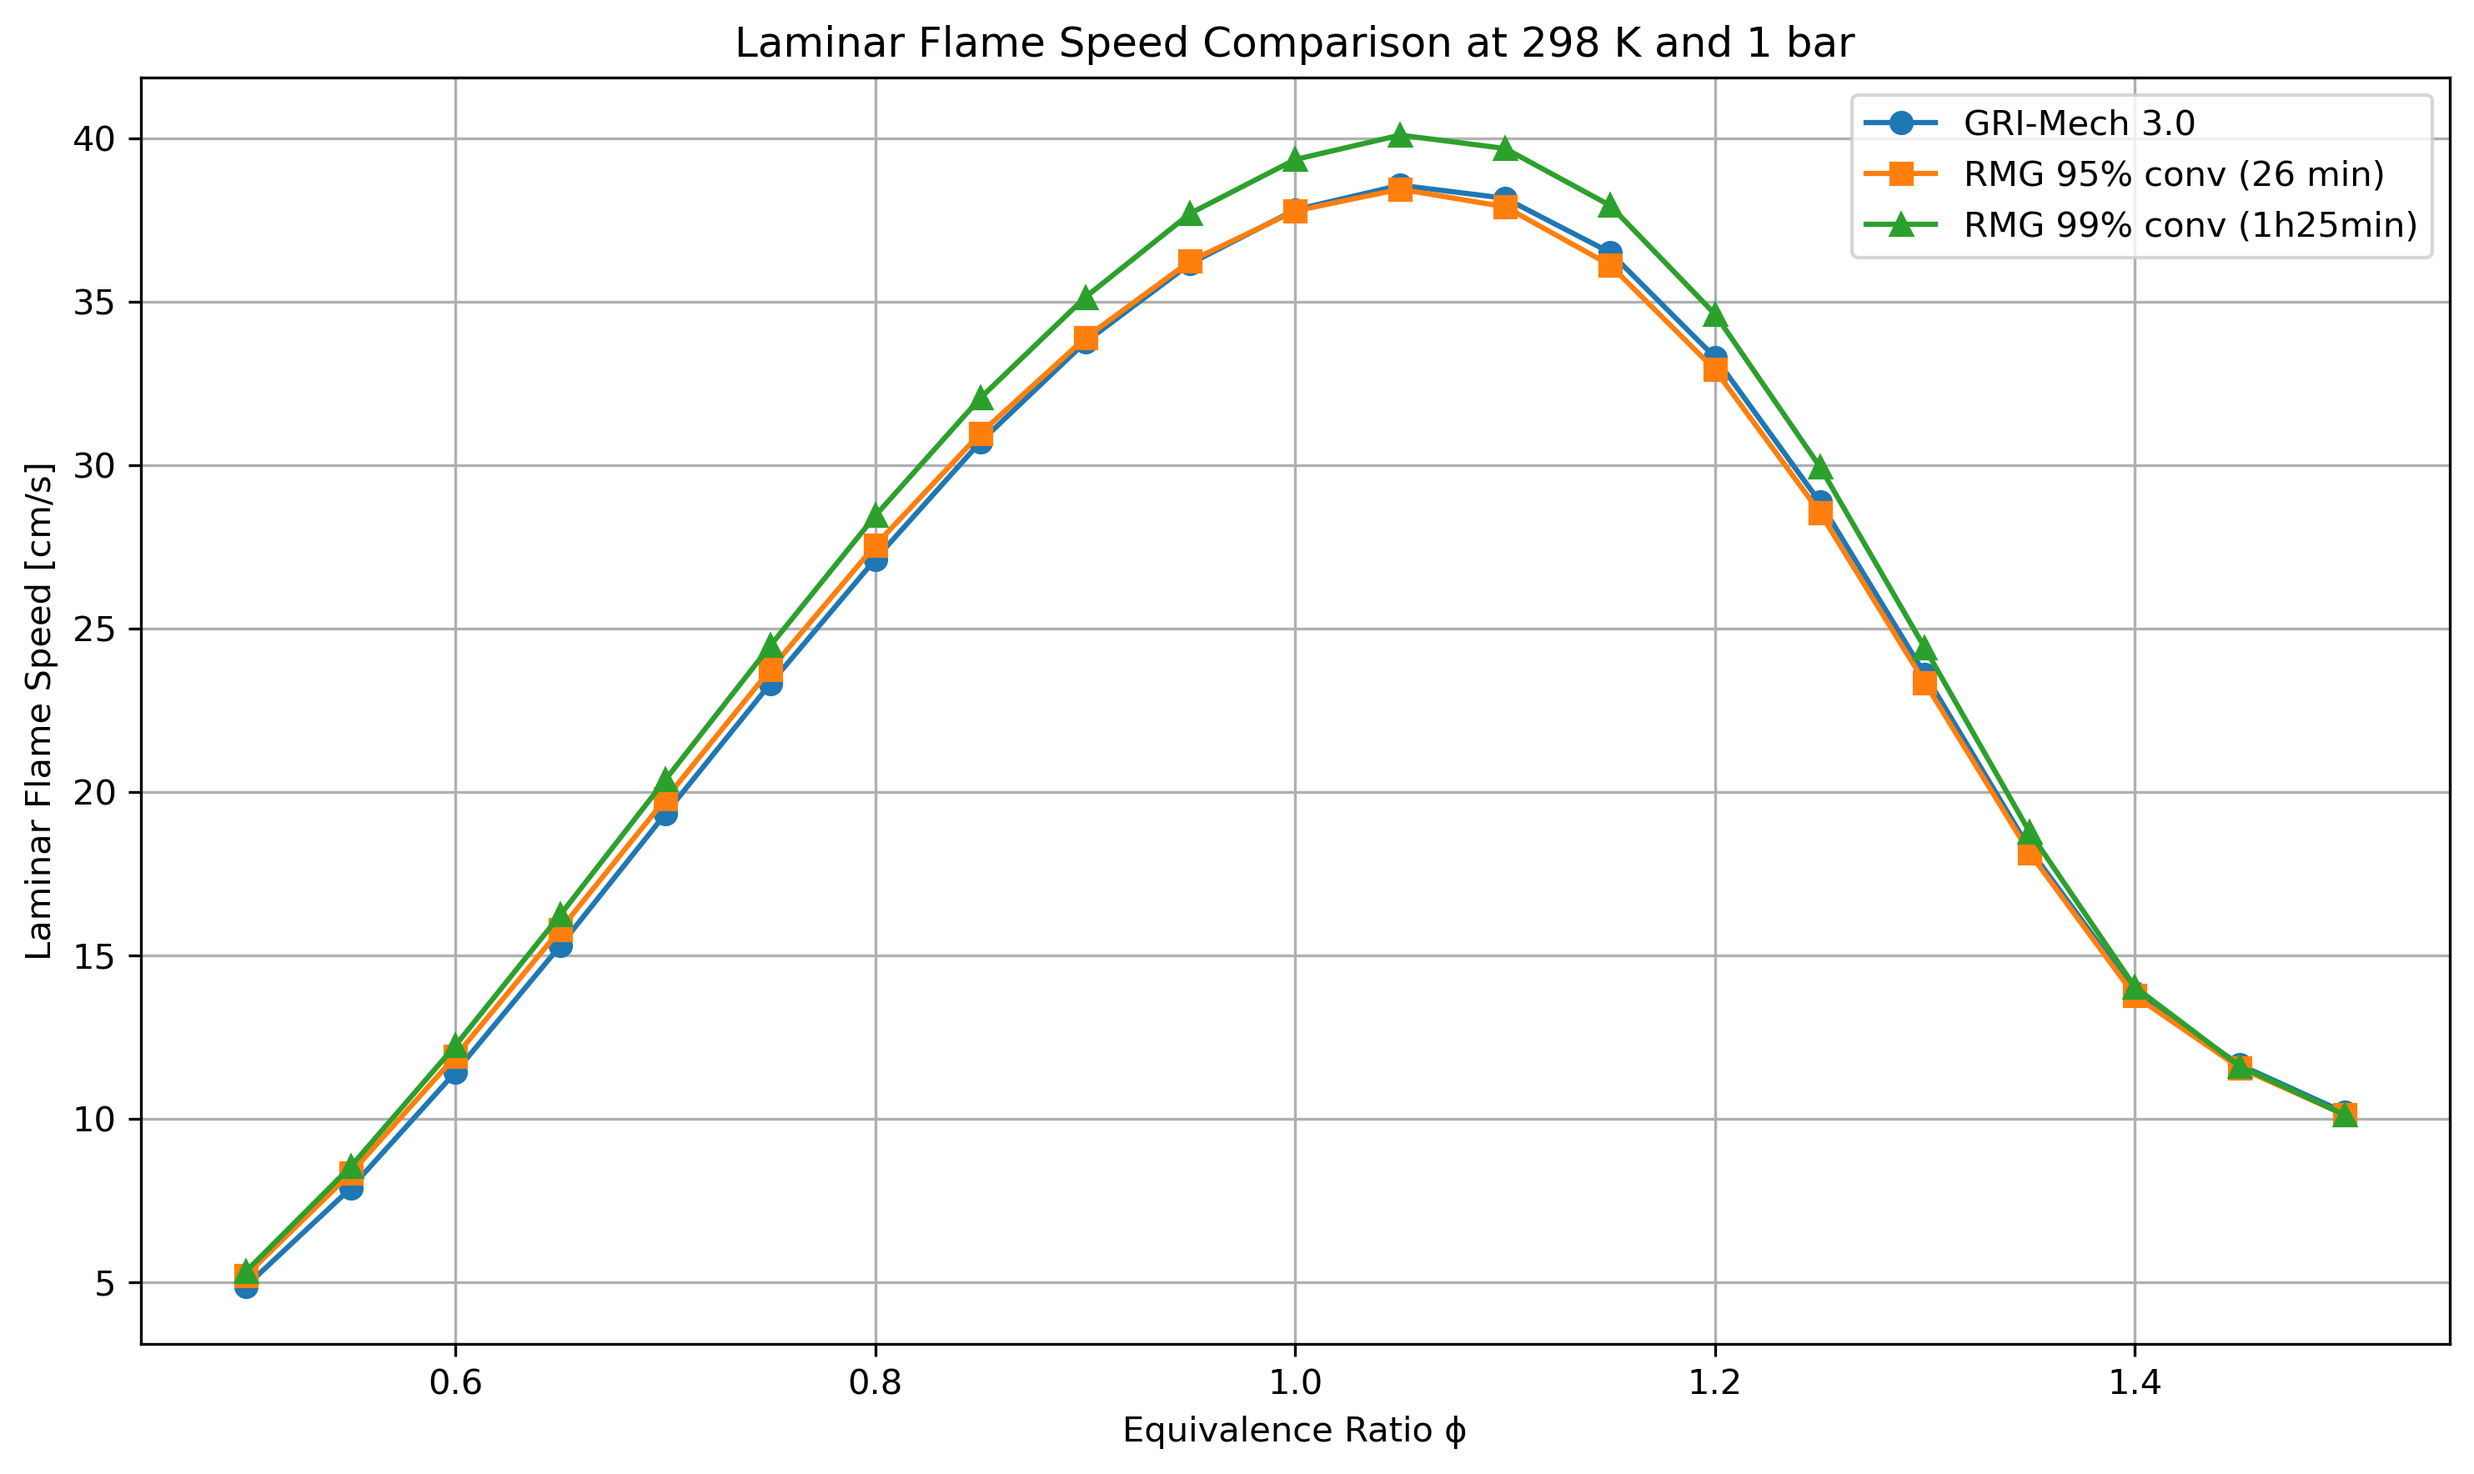
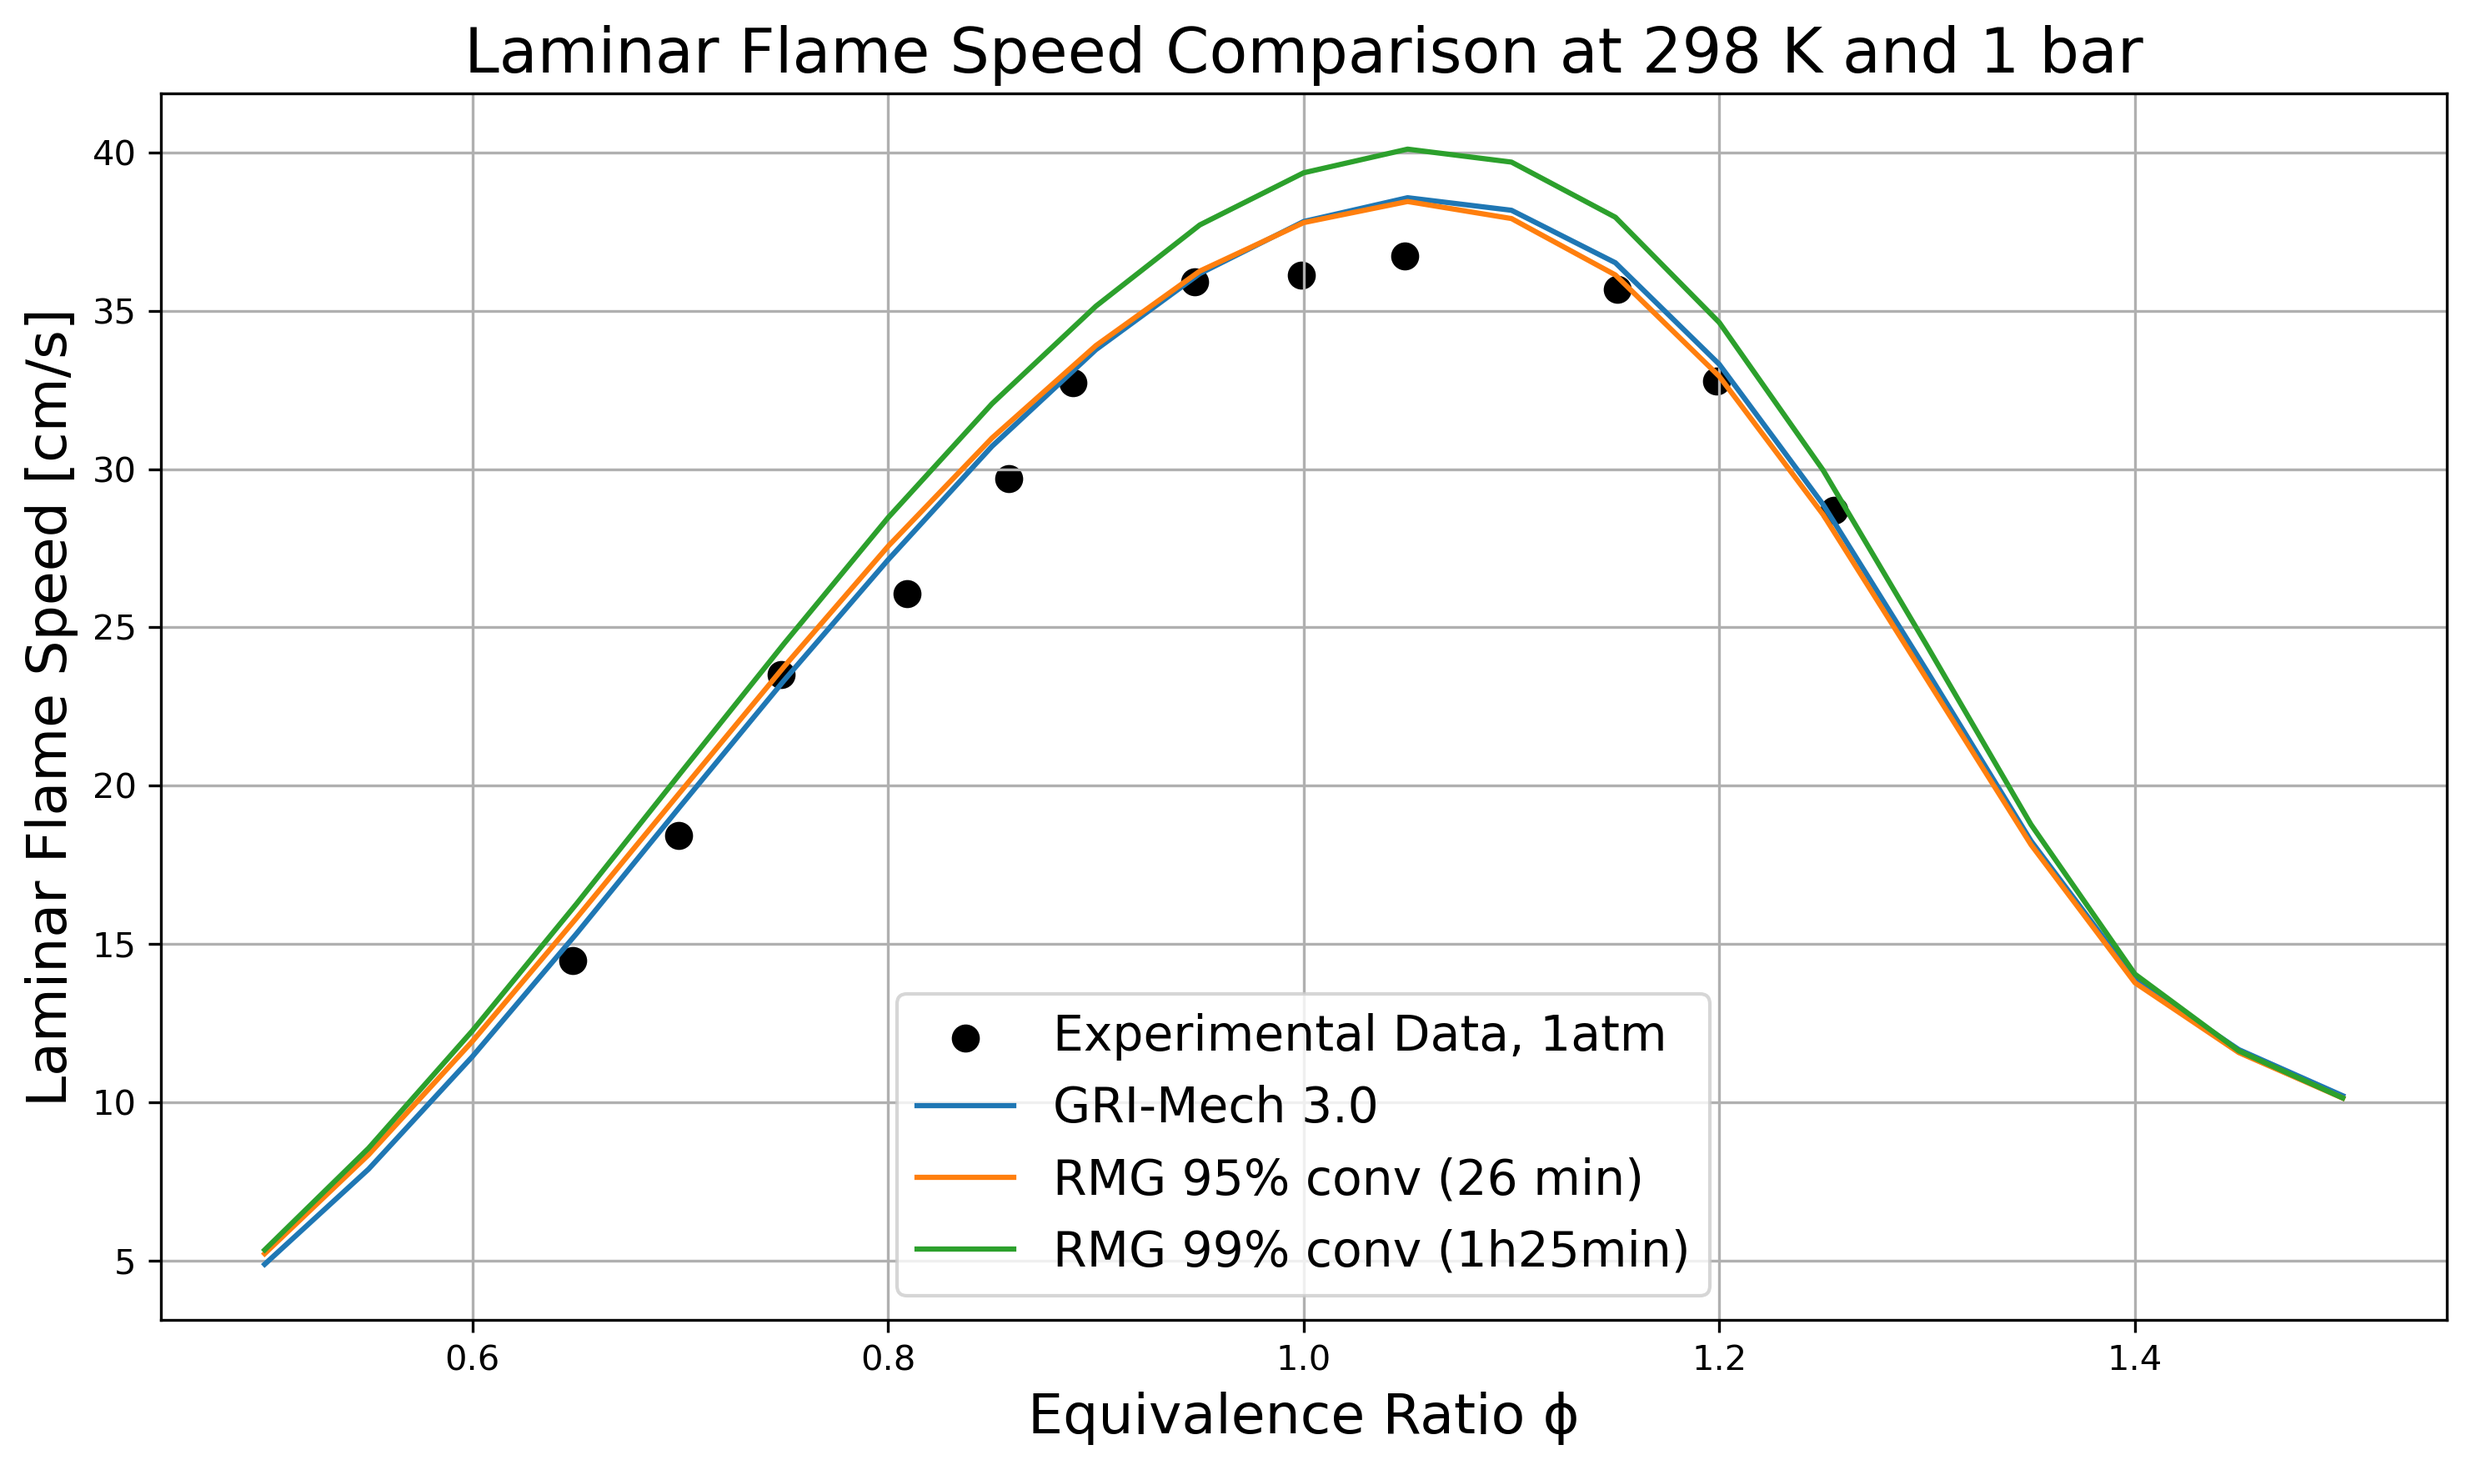
Code update for plots

Changed region(s): [[0.0, 0.0, 0.9933, 0.9983]]

diff --git a/RMG_methane/Analysis_scripts/IDT_RMG.py b/RMG_methane/Analysis_scripts/IDT_RMG.py
@@ -10,13 +10,21 @@ import os
 import matplotlib.pyplot as plt
 import cantera as ct
 
+# -------------------- Experimental Data import Section --------------------------------
+# Import experimental flame speed data
+script_dir = os.path.dirname(__file__)
+os.chdir('/home/brukare/Combustion/RMG_methane')
+IDT_1 = pd.read_csv(os.path.join(script_dir, 'IDT_1.0.csv'))
+
 # -------------------- Cantera Calculation Section --------------------------------
 # Simulation Parameters
 phi = 1.1  # equivalence ratio
-T = np.linspace(700, 1400, 10)  # temperature in K (assignment conditions)
+T_gri = np.linspace(700, 2000, 10)  # temperature in K (assignment conditions)
+T_rmg = np.linspace(700, 1400, 10)  # temperature in K (assignment conditions)
 P_pa = 1e5  # pressure in pa (1 bar)
-xaxis = 1000/T  # x-axis for the plot, 1000/T in K^-1
-estimated_IDT = 1e3  # [s] Estimated ignition delay time in seconds (to make sure we don't hit a platueau in the simulation in thw while loop)
+xaxis_gri = 1000/T_gri  # x-axis for the plot, 1000/T in K^-1
+xaxis_rmg = 1000/T_rmg  # x-axis for the plot, 1000/T in K^-1
+estimated_IDT = 1  # [s] Estimated ignition delay time in seconds 
 
 # Define mechanism-specific species names, fuel and oxidiser
 fuel_gri = 'CH4:1'     # GRI-Mech naming
@@ -33,9 +41,9 @@ gas_rmg_slow = ct.Solution("mechanisms_archive/rmg_99conv_1h25min_20250707/metha
 ref_species = 'CH'  # Reference species for IDT determination
 
 # Arrays to store results
-idt_gri = np.zeros(len(T))
-idt_rmg_fast = np.zeros(len(T))
-idt_rmg_slow = np.zeros(len(T))
+idt_gri = np.zeros(len(T_gri))
+idt_rmg_fast = np.zeros(len(T_rmg))
+idt_rmg_slow = np.zeros(len(T_rmg))
 
 def calculate_Ignition_Delay_simple(temperature_array, gas, mechanism_name, results_array, fuel):
     for j, temp in enumerate(temperature_array):
@@ -75,20 +83,23 @@ def calculate_Ignition_Delay_simple(temperature_array, gas, mechanism_name, resu
 
 # Calculate IDT for all three mechanisms
 print("Calculating IDT for GRI-Mech 3.0...")
-calculate_Ignition_Delay_simple(T, gas_gri, "GRI-Mech 3.0", idt_gri, fuel_gri)
+calculate_Ignition_Delay_simple(T_gri, gas_gri, "GRI-Mech 3.0", idt_gri, fuel_gri)
 
 print("\nCalculating IDT for RMG 95% conv...")
-calculate_Ignition_Delay_simple(T, gas_rmg_fast, "RMG 95% conv", idt_rmg_fast, fuel_rmg)
+calculate_Ignition_Delay_simple(T_rmg, gas_rmg_fast, "RMG 95% conv", idt_rmg_fast, fuel_rmg)
 
 print("\nCalculating IDT for RMG 99% conv...")
-calculate_Ignition_Delay_simple(T, gas_rmg_slow, "RMG 99% conv", idt_rmg_slow, fuel_rmg)
+calculate_Ignition_Delay_simple(T_rmg, gas_rmg_slow, "RMG 99% conv", idt_rmg_slow, fuel_rmg)
 # -------------------- Plot Section --------------------------------
-
 fig, ax = plt.subplots(1, 1, figsize=(10, 8))
+#  Plot experimental data
+exp_temp = IDT_1.iloc[:, 0] 
+exp_idt = IDT_1.iloc[:, 1]    
+ax.scatter(exp_temp, exp_idt, marker='o', color='black', label='Experimental Data, 1atm, phi=1.0', s=50)
 # Plot all three mechanisms
-ax.semilogy(xaxis, idt_gri, 'b-', linewidth=2, marker='o', label='GRI-Mech 3.0')
-ax.semilogy(xaxis, idt_rmg_fast, 'g-', linewidth=2, marker='s', label='RMG 95% conv (26min)')
-ax.semilogy(xaxis, idt_rmg_slow, 'r-', linewidth=2, marker='^', label='RMG 99% conv (1h25min)')
+ax.semilogy(xaxis_gri, idt_gri, 'b-', linewidth=2, label='GRI-Mech 3.0')
+ax.semilogy(xaxis_rmg, idt_rmg_fast, 'g-', linewidth=2,  label='RMG 95% conv (26min)')
+ax.semilogy(xaxis_rmg, idt_rmg_slow, 'r-', linewidth=2, label='RMG 99% conv (1h25min)')
 
 # Add secondary x-axis on the top for Temperature (K)
 def invT_to_T(invT):  # Converts 1000/T back to T in K
@@ -111,20 +122,7 @@ secax.set_xlabel('Temperature [K]')
 
 plt.tight_layout()
 #plt.show()  # Show the plot in interactive mode
-plt.savefig('/home/brukare/Combustion/RMG_methane/Analysis_scripts/ignition_delay_comparison.png', dpi=300)
-
-# -------------------- Save Results --------------------------------
-
-### Save results to CSV
-##results_df = pd.DataFrame({
-##    'Temperature_K': T,
-##    'Inverse_Temperature_1000_per_K': xaxis,
-##    'GRI_Mech_IDT_microseconds': idt_gri,
-##    'RMG_95conv_IDT_microseconds': idt_rmg_95,
-##    'RMG_99conv_IDT_microseconds': idt_rmg_99
-##})
-##
-##results_df.to_csv('/home/brukare/Combustion/RMG_methane/ignition_delay_comparison.csv', index=False)
+plt.savefig('/home/brukare/Combustion/RMG_methane/Analysis_scripts/ignition_delay_with_data.png', dpi=300)
 
 # Print summary
 print("\n" + "="*60)
@@ -133,7 +131,4 @@ print("="*60)
 print(f"GRI-Mech 3.0:        {gas_gri.n_species} species, {gas_gri.n_reactions} reactions")
 print(f"RMG 95% conv:        {gas_rmg_fast.n_species} species, {gas_rmg_fast.n_reactions} reactions")
 print(f"RMG 99% conv:        {gas_rmg_slow.n_species} species, {gas_rmg_slow.n_reactions} reactions")
-### print(f"\nFiles saved:")
-### print(f"  - ignition_delay_comparison.csv")
-### print(f"  - ignition_delay_comparison.png")
 print("="*60)

diff --git a/RMG_methane/Analysis_scripts/Laminar_Flame_speed_RMG.py b/RMG_methane/Analysis_scripts/Laminar_Flame_speed_RMG.py
@@ -8,7 +8,14 @@ matplotlib.use('Agg')  # Use Agg backend for non-interactive plotting
 
 import matplotlib.pyplot as plt
 import cantera as ct
-
+# -------------------- Experimental Data import Section --------------------------------
+# Import experimental flame speed data
+script_dir = os.path.dirname(__file__)
+os.chdir('/home/brukare/Combustion/RMG_methane')
+exp_const_P = pd.read_csv(os.path.join(script_dir, 'FlameSpeedsExperimental_constant temperature_298K.csv'))
+# Only take coloumns with relevant data
+exp_phi = exp_const_P.iloc[:, 0] 
+exp_LFS = exp_const_P.iloc[:, 1]    
 # -------------------- Cantera Calculation Section --------------------------------
 # Simulation Parameters
 pressure = 1e5  # pressure of 1 bar in Pa
@@ -67,10 +74,11 @@ calculate_flame_speed(phi, gas_rmg_slow, loglevel, Tin_const, pressure, False, L
 # Create comparison plot
 fig, ax = plt.subplots(1, 1, figsize=(10, 6))
 
+ax.scatter(exp_phi, exp_LFS, marker='o', color='black', label='Experimental Data, 1atm', s=50)
 # Plot all three mechanisms
-ax.plot(phi, LFS_gri, marker='o', linestyle='-', color='tab:blue', label='GRI-Mech 3.0')
-ax.plot(phi, LFS_rmg_fast, marker='s', linestyle='-', color='tab:orange', label='RMG 95% conv (26 min)')
-ax.plot(phi, LFS_rmg_slow, marker='^', linestyle='-', color='tab:green', label='RMG 99% conv (1h25min)')
+ax.plot(phi, LFS_gri, linestyle='-', color='tab:blue', label='GRI-Mech 3.0')
+ax.plot(phi, LFS_rmg_fast, linestyle='-', color='tab:orange', label='RMG 95% conv (26 min)')
+ax.plot(phi, LFS_rmg_slow, linestyle='-', color='tab:green', label='RMG 99% conv (1h25min)')
 
 ax.set_title('Laminar Flame Speed Comparison at 298 K and 1 bar', fontsize=18)
 ax.set_xlabel('Equivalence Ratio ϕ', fontsize=16)

diff --git a/RMG_methane/Analysis_scripts/Path_Flux_Analysis_RMG.py b/RMG_methane/Analysis_scripts/Path_Flux_Analysis_RMG.py
@@ -2,10 +2,11 @@ import os
 import cantera as ct
 
 # Define a gas mixture at a high temperature that will undergo a reaction:
-# gas = ct.Solution('gri30.yaml') # For GRI mechanism
-gas = ct.Solution("../mechanisms_archive/rmg_99conv_1h25min_20250707/methane_99conv_1h25min.yaml")
-# Set equivalence ratio to 1 for stoichiometric methane-air combustion
-gas.set_equivalence_ratio(1.1, 'CH4(1)', 'O2(2):2.0, N2:7.52')
+# Set equivalence ratio to 1.1 for stoichiometric methane-air combustion
+gas = ct.Solution('gri30.yaml') # For GRI mechanism
+gas.set_equivalence_ratio(1.1, 'CH4', 'O2:2.0, N2:7.52')
+## gas = ct.Solution("../mechanisms_archive/rmg_99conv_1h25min_20250707/methane_99conv_1h25min.yaml")
+#gas.set_equivalence_ratio(1.1, 'CH4(1)', 'O2(2):2.0, N2:7.52')
 gas.TP = 1200, 1e5  # 1500 K, 1 bar (100000 Pa)
 
 # Define the element to follow in the reaction path diagram:
